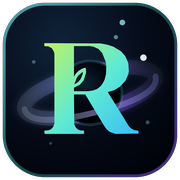
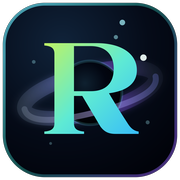
feat: 更新无叶片圆润 R 品牌标识

diff --git a/docs/ui/overview.md b/docs/ui/overview.md
@@ -51,7 +51,7 @@
 
 说明：
 
-- 侧栏品牌入口、浏览器 favicon 和 PWA 主屏幕图标统一使用“R 事件视界”标识：原品牌带衬线与叶片缺口的 R 保持大尺寸主体占比和黄绿—青色渐变；吸积盘沿用启动门面的遮挡关系，但只保留一张低饱和雾蓝—灰紫色倾斜椭圆盘和同盘的前缘，不与 R 争用青绿色相，也不叠加第二描边或独立高光。
+- 侧栏品牌入口、浏览器 favicon 和 PWA 主屏幕图标统一使用“R 事件视界”标识：无装饰叶片、带衬线且曲线圆润的 R 保持大尺寸主体占比和黄绿—青色渐变；吸积盘沿用启动门面的遮挡关系，但只保留一张低饱和雾蓝—灰紫色倾斜椭圆盘和同盘的前缘，不与 R 争用青绿色相，也不叠加第二描边或独立高光。
 - 品牌源文件位于 `ui/assets/brand/`；侧栏和 PWA 使用标准事件视界版本，浏览器 favicon 单独使用小尺寸光学校正版，启动门面使用从同一 R 路径提取的透明渐变字形。高清导出直接把 SVG 栅格化到目标分辨率，标准标识与透明字形 PNG 母版为 2048px、favicon PNG 母版为 1024px，禁止先按 SVG 默认 64px 解码后再放大。根目录 `logo.png`、`static/brand/logo.png` 与 `logo-y.png` 由标准 2048px 母版同步覆盖，`logo-r.png` 则由透明渐变字形母版生成；这些旧文件名只作为兼容入口，不再维护独立旧版图形。常规构建再从高清母版派生 favicon、Apple Touch 与 PWA 固定尺寸，运行时不依赖外部资源。
 - 认知工作区与系统工作区分组展示；全局语义搜索位于顶栏，结果按观测域、主题、真实事件、故事、简报、信源与来源记录分组。
 - 系统工作区内“资源用量”固定放在“运行中心”之后，规范路由为 `/usage`；它是独立一级页面，不是运行中心中的统计卡或设置页标签。
